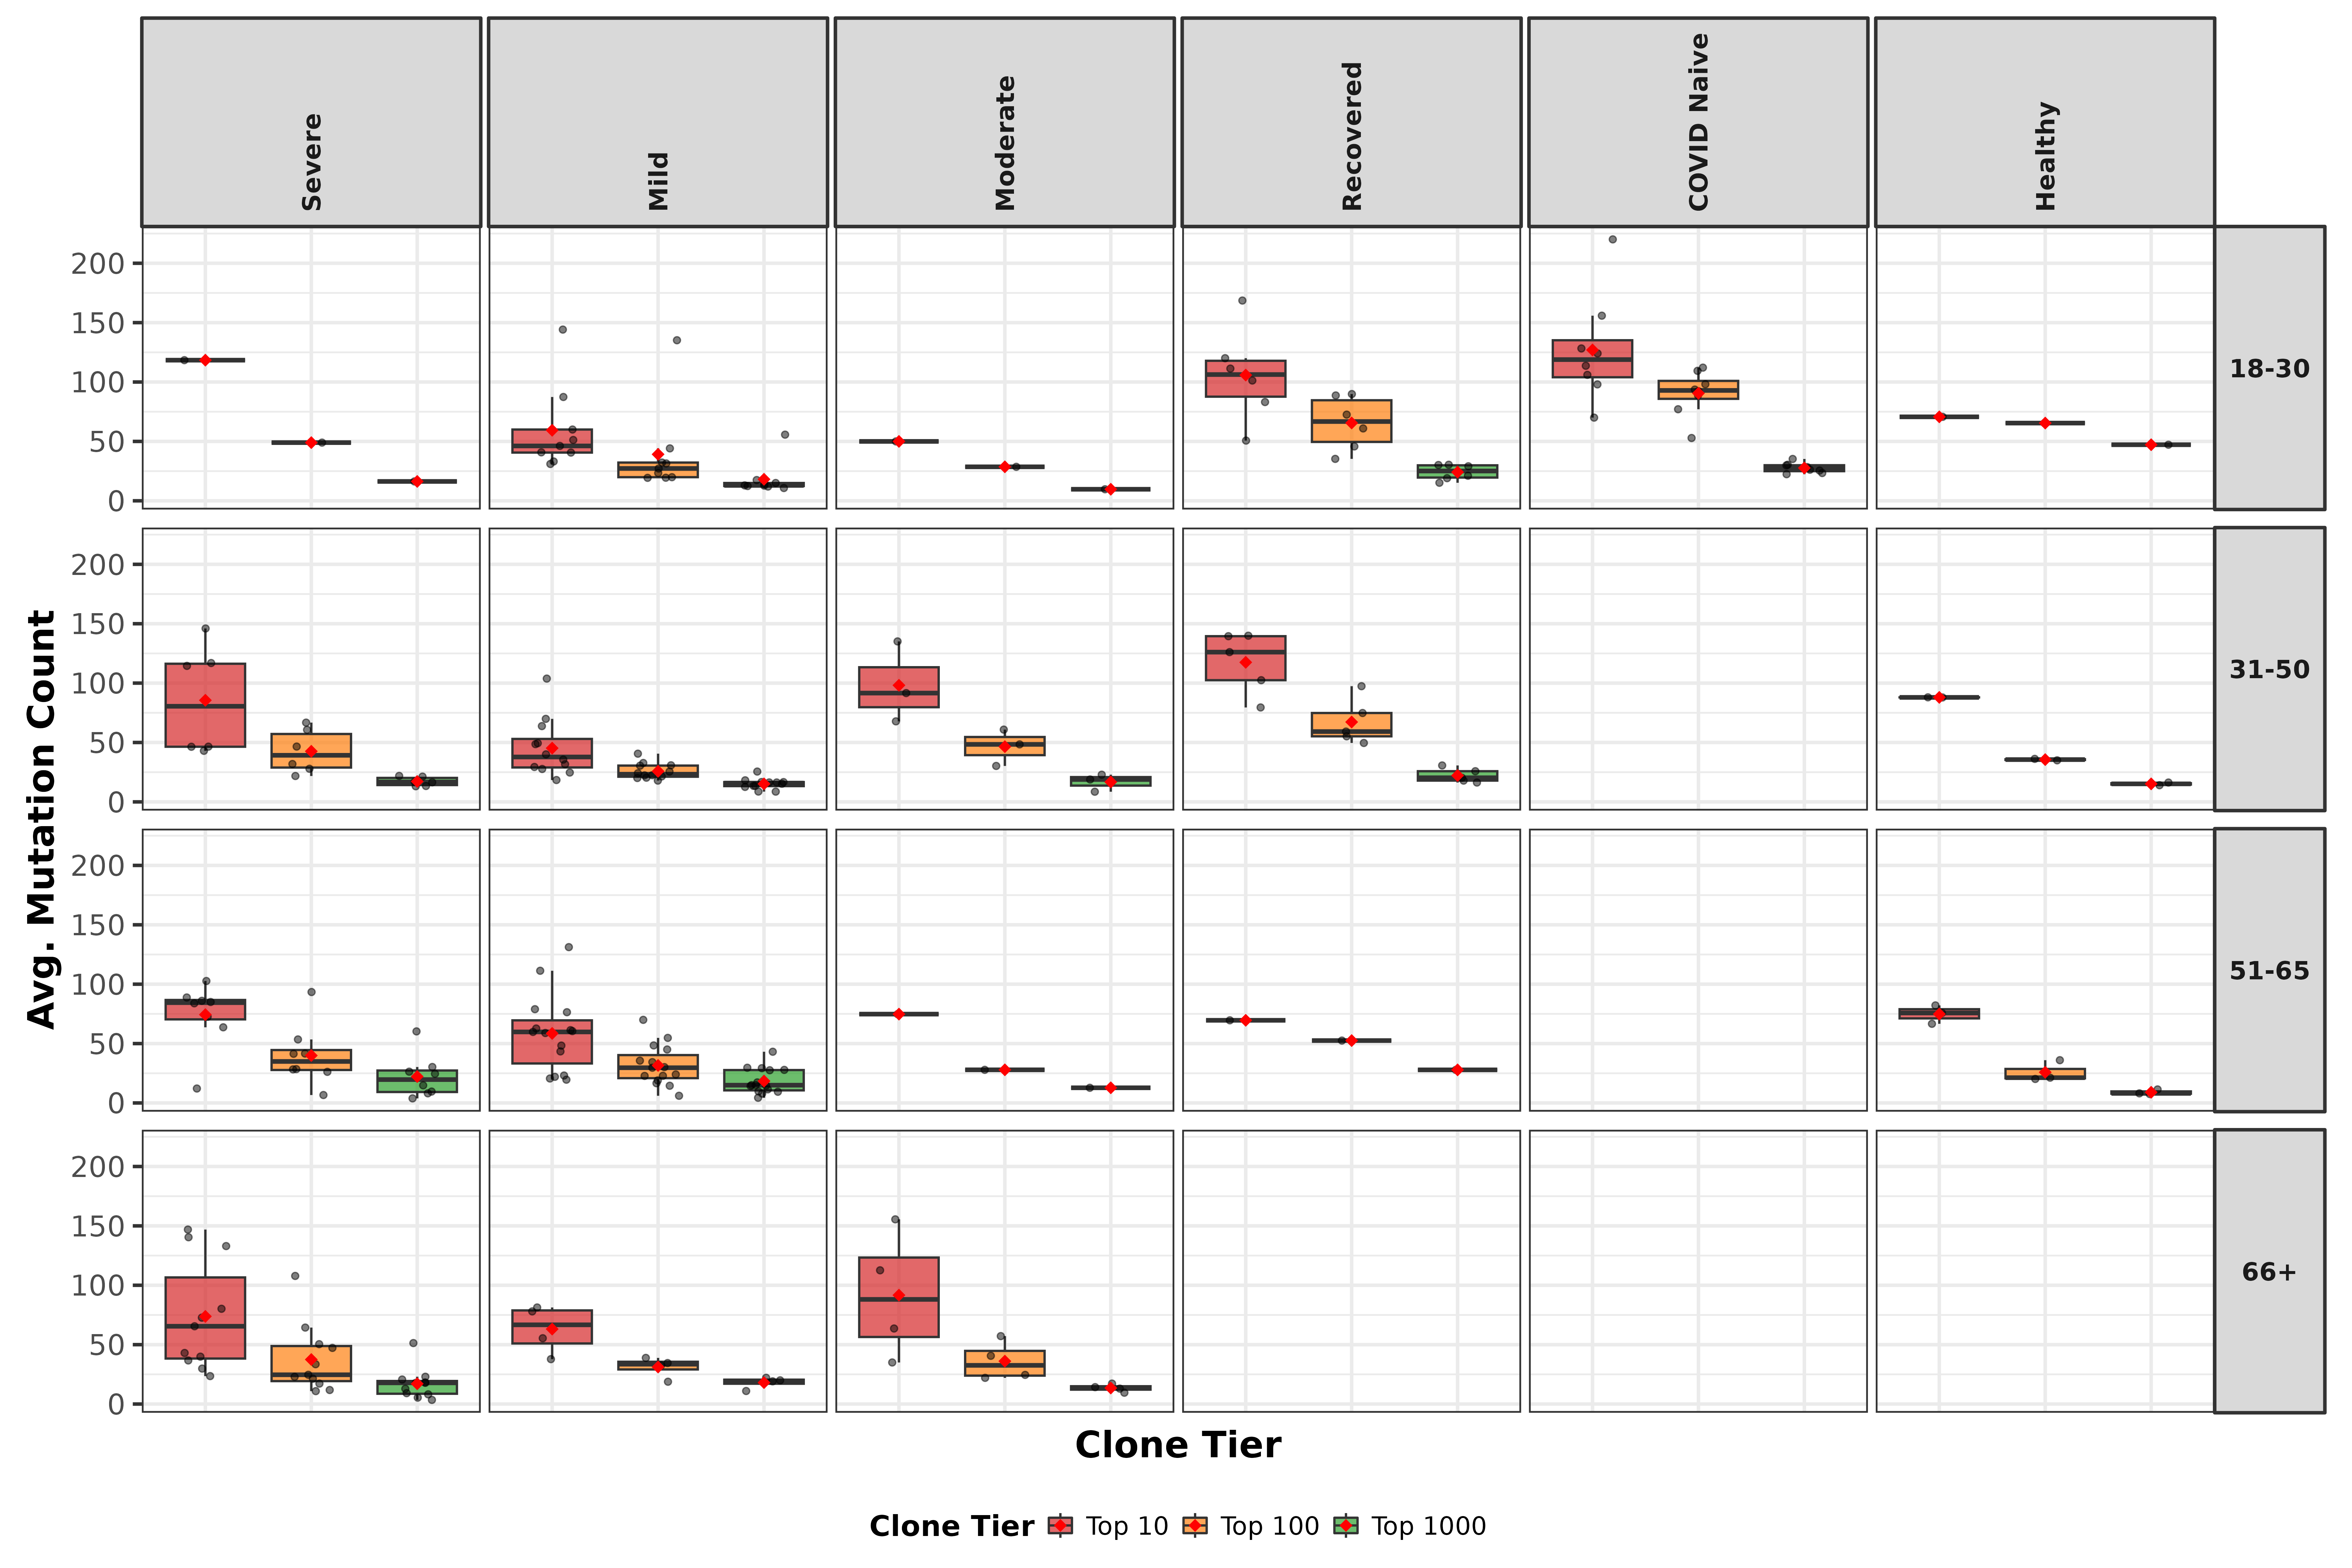
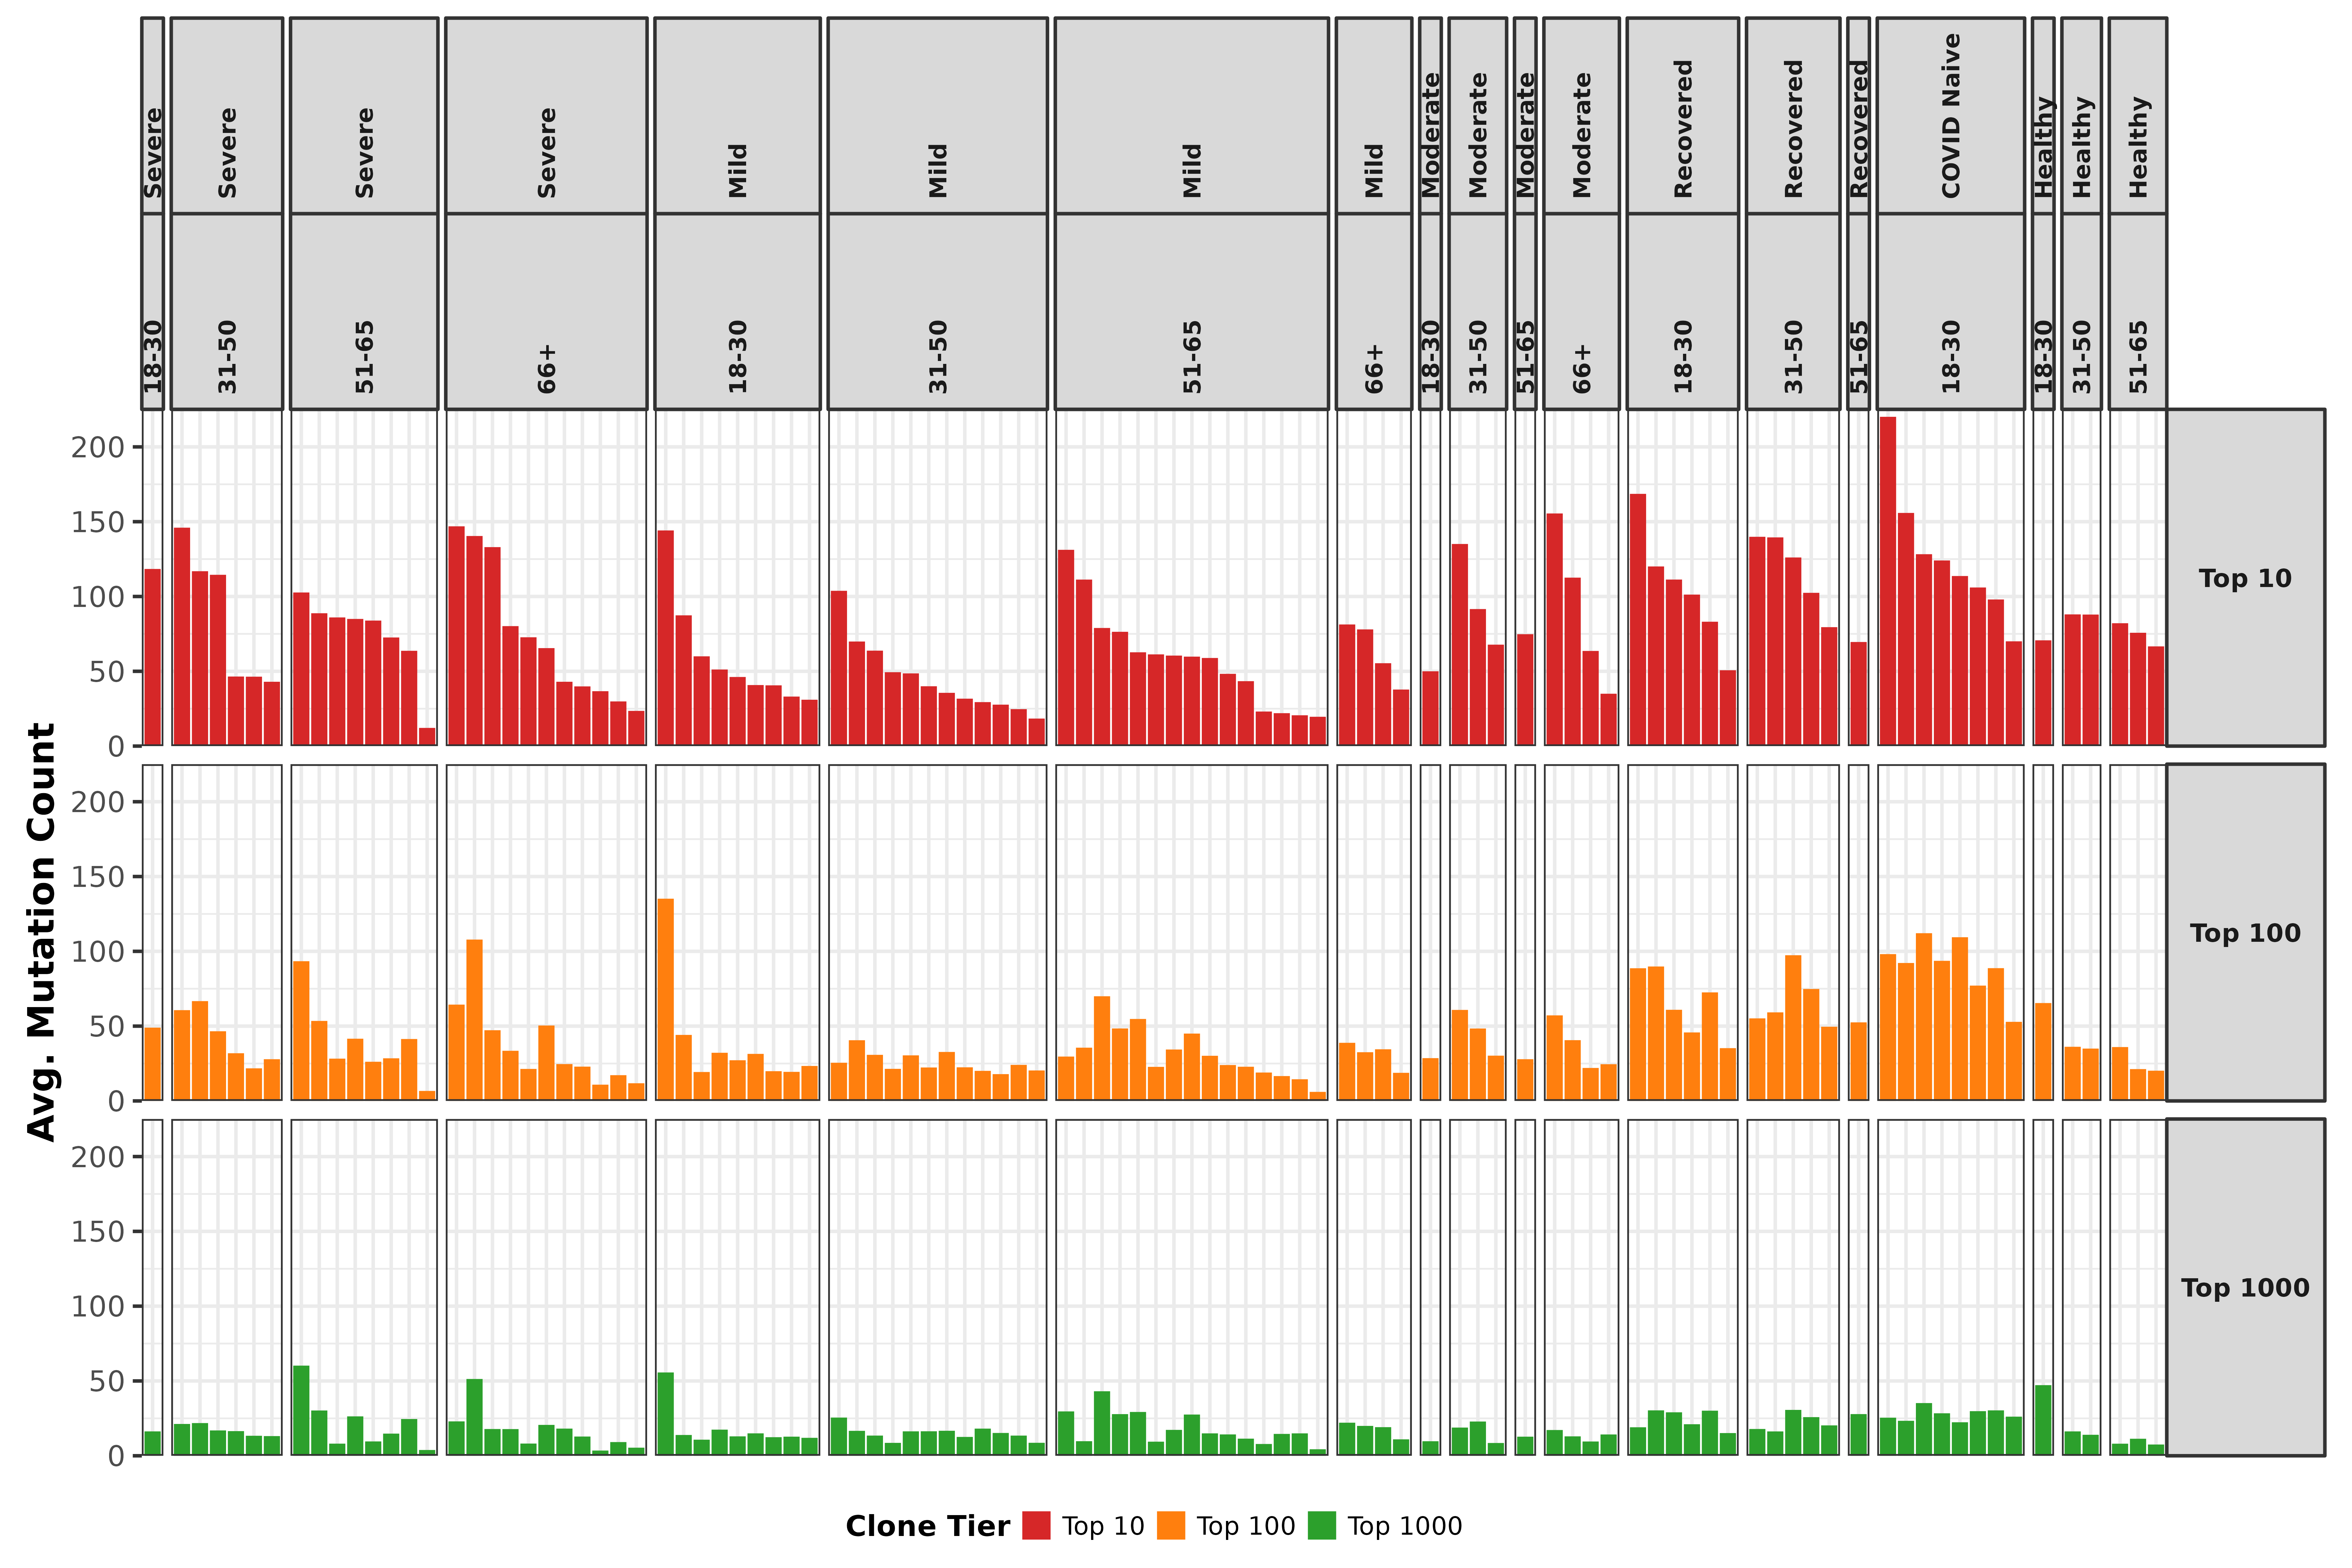
Switch mutation figures from boxplots to per-subject bar charts
Matches the CDR3 figure style: bars per subject faceted by clone tier (rows)
and disease category (columns), sorted by Top 10 mutation count.

Claude-Session: https://claude.ai/code/session_01D55fsgxxDUfDTuPfRhF34U

Changed region(s): [[0.0, 0.0, 1.0, 0.9375], [0.375, 0.9688, 0.625, 1.0], [0.0312, 0.7188, 0.0625, 0.75]]

diff --git a/immunedb_STATS_API/clonal/results_figures.py b/immunedb_STATS_API/clonal/results_figures.py
@@ -494,8 +494,8 @@ doc.add_paragraph(
 )
 add_figure(doc, 'mutation/plots/15_mutation_by_disease.png',
            'Figure 27. Average mutation count per subject for Top 10 (red), Top 100 (orange), '
-           'and Top 1000 (green) expanded clones, faceted by disease category. '
-           'Box plots show median and IQR; red diamond indicates mean with SD error bars.',
+           'and Top 1000 (green) expanded clones, faceted by disease category (columns) and '
+           'clone tier (rows). Subjects sorted by Top 10 mutation count.',
            landscape=True)
 
 add_table(doc,
@@ -517,8 +517,8 @@ doc.add_paragraph(
     'disease category.'
 )
 add_figure(doc, 'mutation/plots/16_mutation_by_age_disease.png',
-           'Figure 28. Average mutation count per subject, faceted by disease category '
-           '(columns) and age group (rows), for each clone tier.',
+           'Figure 28. Average mutation count per subject, faceted by disease category, '
+           'age group (columns), and clone tier (rows).',
            landscape=True)
 
 doc.add_heading('6.3 Mutation Level by Sex and Disease', level=3)
@@ -526,8 +526,8 @@ doc.add_paragraph(
     'Figure 29 presents mutation level distributions by sex within each disease category.'
 )
 add_figure(doc, 'mutation/plots/17_mutation_by_sex_disease.png',
-           'Figure 29. Average mutation count per subject, faceted by disease category '
-           '(columns) and sex (rows), for each clone tier.',
+           'Figure 29. Average mutation count per subject, faceted by disease category, '
+           'sex (columns), and clone tier (rows).',
            landscape=True)
 
 add_table(doc,